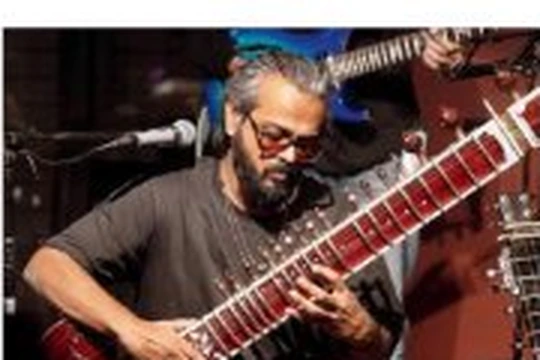
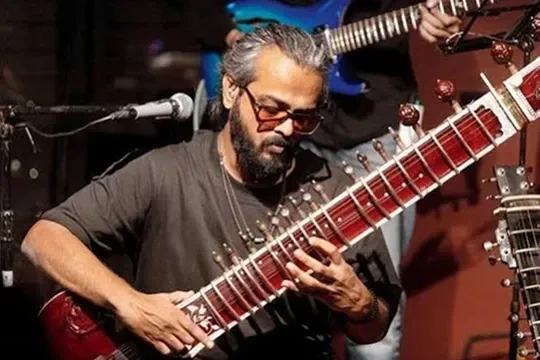
Update About page tour tabs to pill styling and update Sitara Devi and Solo Sets images

diff --git a/src/components/AboutPage.tsx b/src/components/AboutPage.tsx
@@ -197,7 +197,7 @@ export function AboutPage() {
                 className={`about-tour-tab ${activeTab === 'formats' ? 'active' : ''}`}
                 onClick={() => handleTabClick('formats', 'tour-formats-section')}
               >
-                LIVE FORMATS
+                Live Formats
               </button>
               <button
                 type="button"
@@ -206,7 +206,7 @@ export function AboutPage() {
                 className={`about-tour-tab ${activeTab === 'uk' ? 'active' : ''}`}
                 onClick={() => handleTabClick('uk', 'tour-uk-section')}
               >
-                UK TOUR
+                UK Tour
               </button>
               <button
                 type="button"
@@ -215,7 +215,7 @@ export function AboutPage() {
                 className={`about-tour-tab ${activeTab === 'india' ? 'active' : ''}`}
                 onClick={() => handleTabClick('india', 'tour-india-section')}
               >
-                INDIA TOUR
+                India Tour
               </button>
               <button
                 type="button"
@@ -224,7 +224,7 @@ export function AboutPage() {
                 className={`about-tour-tab ${activeTab === 'featured' ? 'active' : ''}`}
                 onClick={() => handleTabClick('featured', 'tour-featured-section')}
               >
-                FEATURED SHOW
+                Featured Show
               </button>
             </div>
 
@@ -234,7 +234,7 @@ export function AboutPage() {
                 <div className="about-format-thumb">
                   <img
                     src="/images/about/solo-sets.webp"
-                    alt="Artistic sketches of live musical performance"
+                    alt="Varun Nimbolkar performing solo set with electric sitar"
                     width={540}
                     height={360}
                     loading="lazy"
@@ -251,7 +251,7 @@ export function AboutPage() {
                 <div className="about-format-thumb">
                   <img
                     src="/images/about/sitara-devi.webp"
-                    alt="Varun Nimbolkar playing sitar live with sunglasses and full ensemble energy"
+                    alt="The Sitara Devi Project live ensemble performance"
                     width={540}
                     height={360}
                     loading="lazy"

diff --git a/src/about.css b/src/about.css
@@ -295,16 +295,16 @@
   display: block;
 }
 
-/* Tabs Bar */
+/* Tabs Bar - Pill Filter Styling */
 .about-tours-nav {
   display: flex;
   align-items: center;
-  gap: clamp(16px, 3.5vw, 42px);
-  border-bottom: 1px solid #e5e5e5;
-  padding-bottom: 12px;
+  gap: 12px;
+  padding-bottom: 6px;
   margin-bottom: 44px;
   overflow-x: auto;
   scrollbar-width: none;
+  border-bottom: none;
 }
 
 .about-tours-nav::-webkit-scrollbar {
@@ -312,37 +312,39 @@
 }
 
 .about-tour-tab {
-  background: none;
-  border: none;
-  font-family: 'Plus Jakarta Sans', sans-serif;
-  font-size: 11.5px;
-  font-weight: 600;
-  letter-spacing: 0.16em;
-  text-transform: uppercase;
-  color: #777777;
-  padding: 6px 0;
-  position: relative;
+  background: #ffffff;
+  border: 1px solid #dcdcdc;
+  border-radius: 9999px;
+  font-family: 'Plus Jakarta Sans', -apple-system, BlinkMacSystemFont, 'Segoe UI', Roboto, sans-serif;
+  font-size: 13.5px;
+  font-weight: 500;
+  letter-spacing: 0.01em;
+  text-transform: none;
+  color: #111111;
+  padding: 10px 24px;
   white-space: nowrap;
   cursor: pointer;
-  transition: color 0.2s ease;
+  transition: all 0.2s ease;
+  display: inline-flex;
+  align-items: center;
+  justify-content: center;
+  line-height: 1.2;
 }
 
 .about-tour-tab:hover {
+  border-color: #111111;
+  background: #f8f8f8;
   color: #111111;
 }
 
 .about-tour-tab.active {
-  color: #111111;
+  background: #111111;
+  border-color: #111111;
+  color: #ffffff;
 }
 
 .about-tour-tab.active::after {
-  content: '';
-  position: absolute;
-  bottom: -13px;
-  left: 0;
-  right: 0;
-  height: 2px;
-  background: #111111;
+  display: none;
 }
 
 /* Formats Grid: Solo Sets & Sitara Devi */

diff --git a/src/data/collabData.ts b/src/data/collabData.ts
@@ -119,3 +119,4 @@ export const AI_INNOVATION: MetricFeature = {
   secondaryUrl: 'https://www.beatoven.ai/about',
   secondaryLabel: 'ABOUT BEATOVEN',
 };
+

diff --git a/src/components/CollabPage.tsx b/src/components/CollabPage.tsx
@@ -326,3 +326,4 @@ export function CollabPage() {
     </div>
   );
 }
+

diff --git a/src/collab.css b/src/collab.css
@@ -411,3 +411,4 @@
     padding-top: 0;
   }
 }
+
